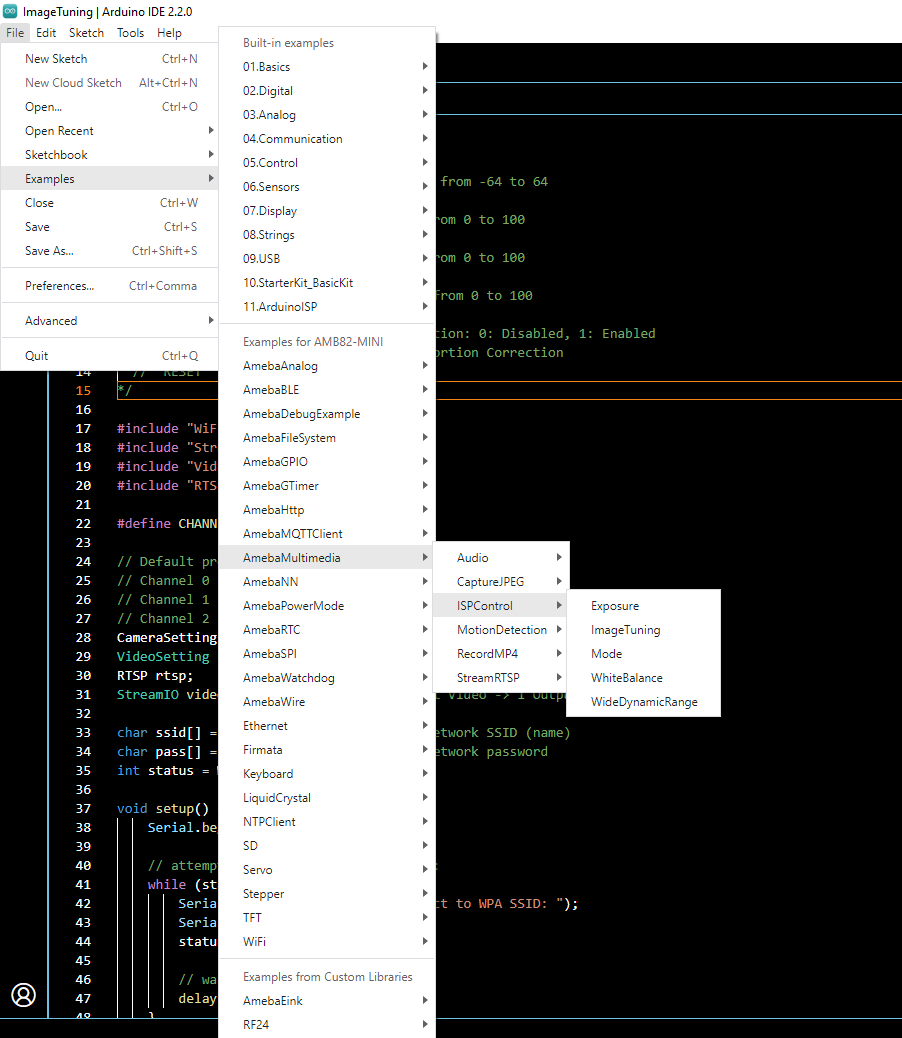
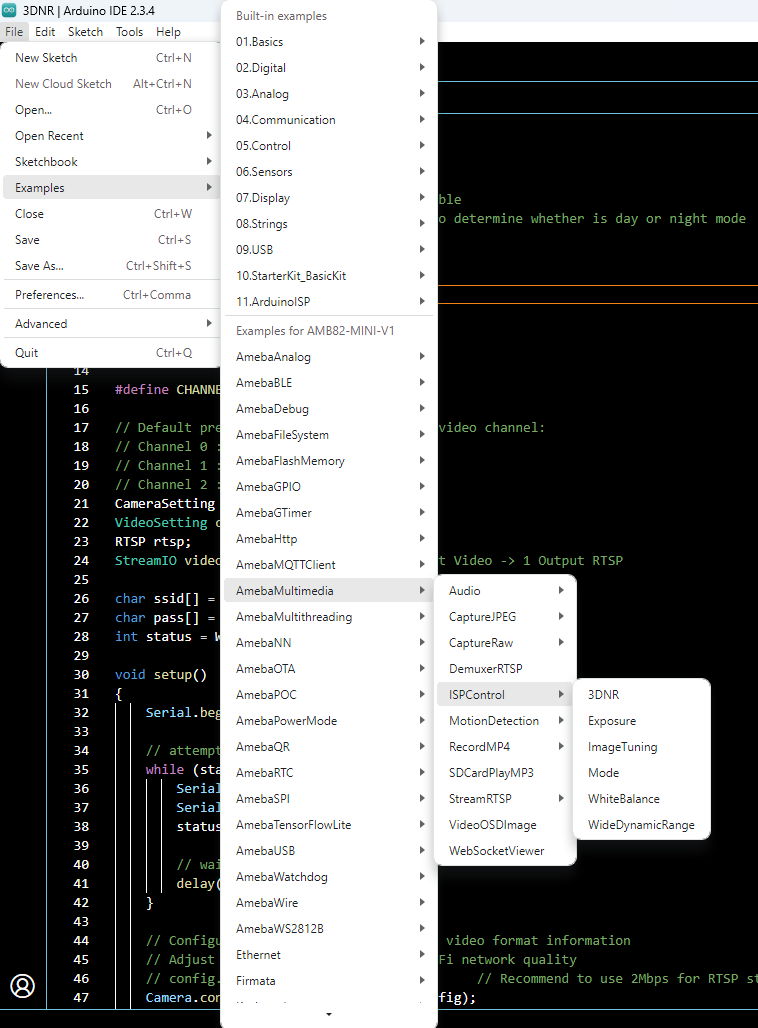
docs(amb82-mini): update example guides (#112)
- Add new example guides for USB, SPI, and Multimedia libraries.

diff --git a/source/ameba_pro2/amb82-mini/Example_Guides/USB/USB Host CDC with MI48.rst b/source/ameba_pro2/amb82-mini/Example_Guides/USB/USB Host CDC with MI48.rst
@@ -1,0 +1,108 @@
+
+MI48 Thermal Camera
+===================
+
+Materials
+---------
+
+- `AMB82-mini <https://www.amebaiot.com/en/where-to-buy-link/#buy_amb82_mini>`__ x 1
+- MI48 thermal imaging camera x 1
+- PC with VLC Media Player installed x 1
+
+Example
+-------
+
+AmebaPro2 supports USB Host Communication Device Class (CDC), allowing users to connect an external MI48 thermal imaging camera to the Ameba board through USB. The following examples demonstrate how to receive thermal image data from the MI48 camera and stream the thermal images over Wi-Fi using Real-Time Streaming Protocol (RTSP).
+
+Connect the "Micro USB" port of AMB82-mini to the PC for programming. Connect the MI48 thermal imaging camera to the "USB OTG" port.
+
+**Example 1: USBH_MI48_CDC**
+
+Open the example in :guilabel:`File -> Examples -> AmebaUSB -> MI48 -> USBH_MI48_CDC`. Compile and upload to Ameba, then press the reset button.
+
+|image01|
+
+Open the Serial Monitor and set the baud rate to 115200 to review the USB Host CDC initialization and MI48 connection logs.
+
+
+
+Once the MI48 camera is successfully connected, the following message will be displayed in the Serial Monitor:
+
+.. code-block:: text
+
+   Starting USB Host CDC...
+   Waiting for MI48...
+   MI48 streaming
+
+The Ameba board will continuously receive GFRA frame data from the MI48 camera. The received frame payload size and USB dropped-byte count will be displayed in the Serial Monitor.
+
+|image02|
+
+**Example 2: USBH_MI48_RTSP**
+
+This example demonstrates how to capture thermal images from the MI48 camera and stream them over Wi-Fi using RTSP. The thermal video stream can be viewed on a PC using VLC Media Player.
+
+Open the example in :guilabel:`File -> Examples -> AmebaUSB -> MI48 -> USBH_MI48_RTSP`.
+
+|image03|
+
+Modify the Wi-Fi credentials in the sample code to connect Ameba to your Wi-Fi network.
+
+.. code-block:: cpp
+
+   char ssid[] = "Network_SSID";
+   char pass[] = "Password";
+
+The default thermal camera settings are configured as follows:
+
+.. code-block:: cpp
+
+   #define MI48_VIDEO_WIDTH      64
+   #define MI48_VIDEO_HEIGHT     64
+   #define MI48_VIDEO_FPS        5
+   #define MI48_VIDEO_RAINBOW    1
+
+The MI48 camera is configured to capture thermal images at a resolution of 64 x 64 and a frame rate of up to 5 fps. Rainbow-colour mode is enabled by default.
+
+Compile and upload the code to Ameba, then press the reset button.
+
+Open the Serial Monitor and set the baud rate to 115200. Once Ameba is connected to the Wi-Fi network and the thermal camera is initialized successfully, the RTSP streaming URL will be displayed in the Serial Monitor.
+
+|image04|
+
+Open VLC Media Player on the PC and select :guilabel:`Media -> Open Network Stream`. Enter the RTSP URL displayed in the Serial Monitor and click :guilabel:`Play`.
+
+Ensure that the PC and Ameba are connected to the same network.
+
+The thermal images captured by the MI48 camera will be streamed to VLC Media Player through RTSP.
+
+|image05|
+
+To switch between rainbow-colour and grayscale output, modify the following parameter:
+
+.. code-block:: cpp
+
+   #define MI48_VIDEO_RAINBOW 1
+
+Set the value to ``1`` for rainbow-colour mode or ``0`` for grayscale mode.
+
+Ensure that the MI48 camera is properly connected to the USB OTG port before running either example.
+
+.. |image01| image:: ../../../../_static/amebapro2/Example_Guides/USB/MI48/image01.png
+    :width: 787 px
+    :height:  1025 px
+    :scale: 80%
+.. |image02| image:: ../../../../_static/amebapro2/Example_Guides/USB/MI48/image02.png
+    :width: 684 px
+    :height:  1031 px
+    :scale: 80%
+.. |image03| image:: ../../../../_static/amebapro2/Example_Guides/USB/MI48/image03.png
+    :width: 703 px
+    :height:  1031 px
+.. |image04| image:: ../../../../_static/amebapro2/Example_Guides/USB/MI48/image04.png
+    :width: 518 px
+    :height:  270 px
+.. |image05| image:: ../../../../_static/amebapro2/Example_Guides/USB/MI48/image05.png
+    :width: 1918 px
+    :height:  1006 px
+    :scale: 70%

diff --git a/source/ameba_pro2/amb82-mini/Example_Guides/SPI/ILI9341 Bitmap Auto.rst b/source/ameba_pro2/amb82-mini/Example_Guides/SPI/ILI9341 Bitmap Auto.rst
@@ -1,0 +1,96 @@
+
+ILI9341 Bitmap Auto
+===================
+
+Materials
+---------
+
+- `AMB82-mini <https://www.amebaiot.com/en/where-to-buy-link/#buy_amb82_mini>`__ x 1
+- ILI9341 TFT LCD display x 1
+
+Example
+-------
+
+In this example, we will use the Ameba Pro2 board to display
+a BMP image on an ILI9341 TFT LCD through SPI communication.
+The BMP image will be automatically converted into a header
+file during compilation, without requiring users to manually
+convert the image.
+
+Connect the ILI9341 TFT LCD display to the AMB82-mini board
+using the SPI interface.
+
+|image01|
+
+Open the sample code in :guilabel:`File -> Examples -> AmebaSPI -> ILI9341_Bitmap_Auto`.
+
+|image02|
+
+Prepare a BMP image in 16-bit, 24-bit, or 32-bit format,
+with a maximum resolution of 240 x 320 pixels.
+
+Place the BMP image in the same folder as the
+``ILI9341_Bitmap_Auto.ino`` sketch.
+
+During compilation, the BMP image will be automatically
+converted into a header file named ``auto_bitmap.h``.
+The converted image data will be included in the sketch.
+
+The following code initializes the ILI9341 TFT LCD display
+and displays the converted bitmap image.
+
+.. code-block:: cpp
+
+   #if AUTO_BITMAP_PRESENT
+       tft.drawBitmap(0, 0, AUTO_BITMAP_WIDTH,
+                      AUTO_BITMAP_HEIGHT, auto_bitmap);
+   #endif
+
+Compile and upload the code to Ameba, then press the
+reset button.
+
+Open the Serial Monitor and set the baud rate to 115200.
+When the bitmap image is successfully displayed,
+the image filename and resolution will be printed
+in the Serial Monitor.
+
+The converted BMP image will be displayed on the
+ILI9341 TFT LCD screen.
+
+Additional
+----------
+
+Users can replace the BMP image in the sketch folder
+with another supported image and recompile the sketch.
+The image will be automatically converted during
+the next build.
+
+The SPI frequency is configured to 20 MHz by default,
+as shown below:
+
+.. code-block:: cpp
+
+   #define ILI9341_SPI_FREQUENCY 20000000
+
+The TFT display control pins are defined as follows:
+
+.. code-block:: cpp
+
+   #define TFT_RESET 5
+   #define TFT_DC    4
+   #define TFT_CS    SPI_SS
+
+Ensure that the ILI9341 TFT LCD is connected to
+the correct SPI and control pins.
+
+If no valid BMP image is found, the example will
+display a message in the Serial Monitor indicating
+that no image was drawn.
+
+.. |image01| image:: ../../../../_static/amebapro2/Example_Guides/SPI/ILI9341_Bitmap_Auto/image01.png
+   :width: 1020 px
+   :height: 593 px
+
+.. |image02| image:: ../../../../_static/amebapro2/Example_Guides/SPI/ILI9341_Bitmap_Auto/image02.png
+   :width: 790 px
+   :height: 1031 px

diff --git a/source/ameba_pro2/amb82-mini/Example_Guides/USB/UVC Host Snapshot.rst b/source/ameba_pro2/amb82-mini/Example_Guides/USB/UVC Host Snapshot.rst
@@ -1,0 +1,54 @@
+
+UVC Host Snapshot
+=================
+
+Materials
+---------
+
+- `AMB82-mini <https://www.amebaiot.com/en/where-to-buy-link/#buy_amb82_mini>`__ x 1
+- USB Video Class (UVC) compatible USB camera x 1
+- MicroSD card x 1
+
+Example
+-------
+
+AmebaPro2 supports USB Video Class (UVC) Host functionality, allowing users to connect an external USB camera to the Ameba board and capture images. The captured images are saved in JPEG format to a MicroSD card.
+
+Connect the "Micro USB" port of AMB82-mini to the PC for programming. Insert a MicroSD card into the AMB82-mini and connect a UVC-compatible USB camera to the "USB OTG" port.
+
+Open the example in :guilabel:`File -> Examples -> AmebaUSB -> UVC_Host_Snapshot`. Compile and upload to Ameba, then press the reset button.
+
+|image01|
+
+The default UVC camera settings are configured as follows:
+
+.. code-block:: cpp
+
+   #define USBH_UVC_FORMAT_TYPE USBH_UVC_FORMAT_MJPEG
+   #define USBH_UVC_WIDTH       640
+   #define USBH_UVC_HEIGHT      480
+   #define USBH_UVC_FRAME_RATE  15
+
+The UVC camera is configured to capture images in MJPEG format at a resolution of 640 x 480 and a frame rate of 15 fps.
+
+Open the Serial Monitor and set the baud rate to 115200 to review the initialization and image capture logs.
+
+|image02|
+
+|image03|
+
+Once the USB camera is successfully detected, Ameba will initialize the UVC driver and start receiving frames from the camera. After the initial warm-up period, images will be automatically captured and saved to the MicroSD card.
+
+The captured images are saved with sequential filenames, such as ``img0.jpeg``, ``img1.jpeg``, and ``img2.jpeg``.
+
+Remove the MicroSD card, insert the MicroSD card into a PC to view the captured images.
+
+.. |image01| image:: ../../../../_static/amebapro2/Example_Guides/USB/UVC_Host_Snapshot/image01.png
+    :width: 684 px
+    :height:  1031 px
+.. |image02| image:: ../../../../_static/amebapro2/Example_Guides/USB/UVC_Host_Snapshot/image02.png
+    :width: 606 px
+    :height:  618 px
+.. |image03| image:: ../../../../_static/amebapro2/Example_Guides/USB/UVC_Host_Snapshot/image03.png
+    :width: 453 px
+    :height:  306 px

diff --git a/source/ameba_pro2/amb82-mini/Example_Guides/Multimedia/ISP Control.rst b/source/ameba_pro2/amb82-mini/Example_Guides/Multimedia/ISP Control.rst
@@ -16,6 +16,7 @@ The following examples are relevant to this guide.
 3. Mode
 4. WhiteBalance
 5. WideDynamicRange
+6. 3DNR
 
 Open one of the ISP Control examples in :guilabel:`File -> Examples -> AmebaMultimedia -> ISPControl`
 
@@ -139,6 +140,14 @@ LDC=1
 | Enter "**LEVEL={value}**" to set preferred WDR level. (Range from 50 to 100).
 | Enter "**LEVEL**" to get the value of WDR level.
 
+| **"3DNR" example**
+| 3D Noise Reduction (3DNR) helps reduce image noise by
+  processing information across multiple video frames,
+  improving image quality, especially in low-light conditions.
+| **To enable or disable 3DNR:**
+| Enter "**3DNR={value}**" to enable or disable 3D Noise Reduction. (0: Disable, 1: Enable).
+| Enter "**3DNR**" to get the current 3DNR setting.
+
 | **To reset all the ISP Control value to default:**
 | Enter "**RESET**" to set all the values to default value.
 
@@ -158,8 +167,8 @@ You may adjust the video bitrate based on your WiFi network quality, by uncommen
 |image13|
 
 .. |image01| image:: ../../../../_static/amebapro2/Example_Guides/Multimedia/ISP_Control/image01.png
-   :width:  811 px
-   :height: 934 px
+   :width:  758 px
+   :height: 1028 px
 
 .. |image02| image:: ../../../../_static/amebapro2/Example_Guides/Multimedia/ISP_Control/image02.png
    :width:  811 px

diff --git a/source/ameba_pro2/amb82-mini/Example_Guides/USB/index.rst b/source/ameba_pro2/amb82-mini/Example_Guides/USB/index.rst
@@ -5,4 +5,6 @@ USB
    :maxdepth: 1
 
    UVC Device
+   UVC Host Snapshot
    USB Mass Storage
+   USB Host CDC with MI48

diff --git a/source/ameba_pro2/amb82-mini/Example_Guides/SPI/index.rst b/source/ameba_pro2/amb82-mini/Example_Guides/SPI/index.rst
@@ -6,4 +6,4 @@ SPI
 
    Display SD JPG ILI9341 TFT
    LCD Screen ILI9341 TFT
-
+   ILI9341 Bitmap Auto
